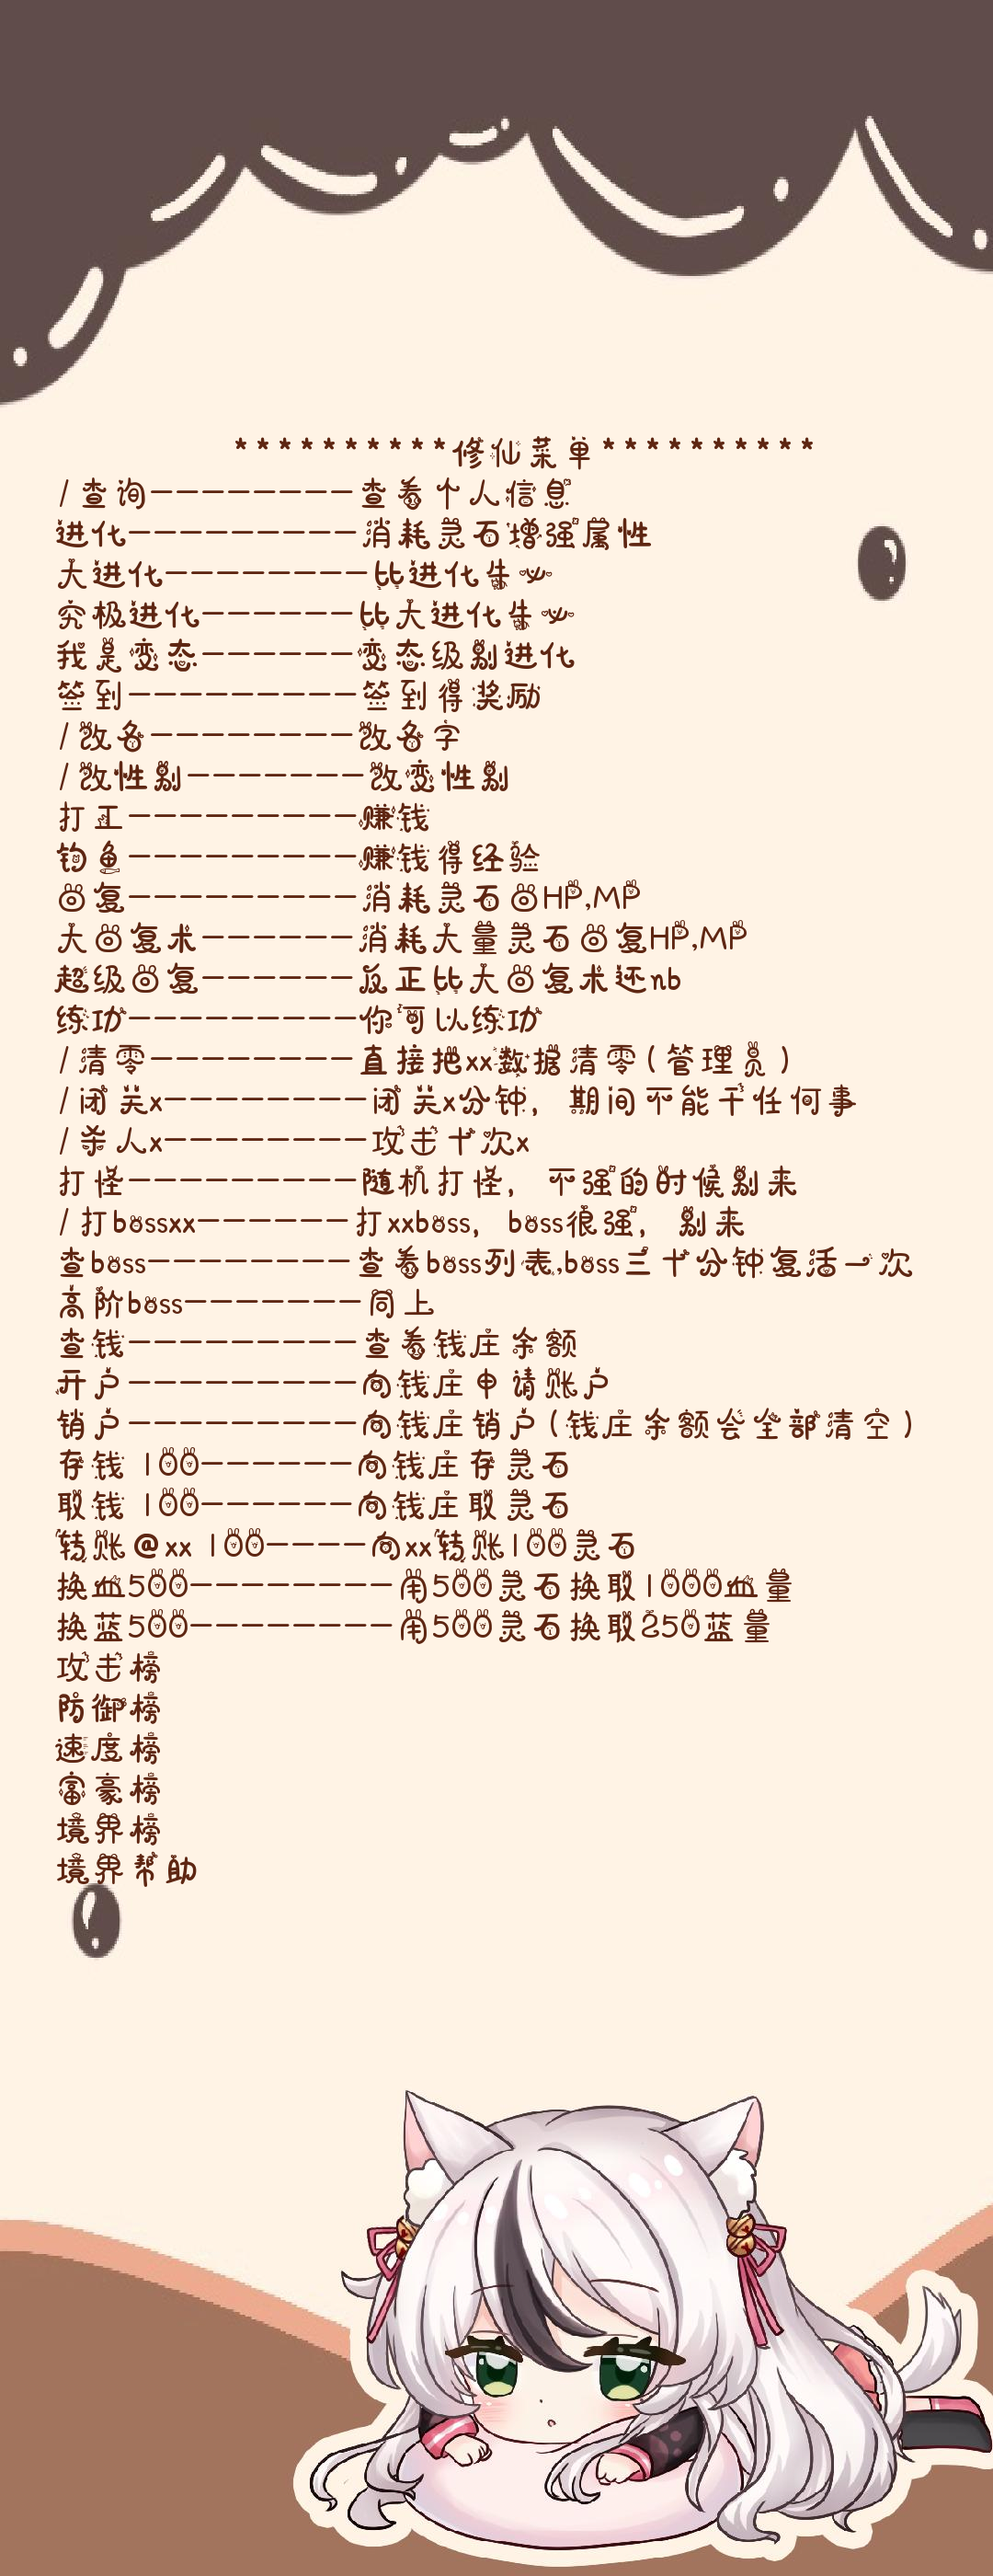
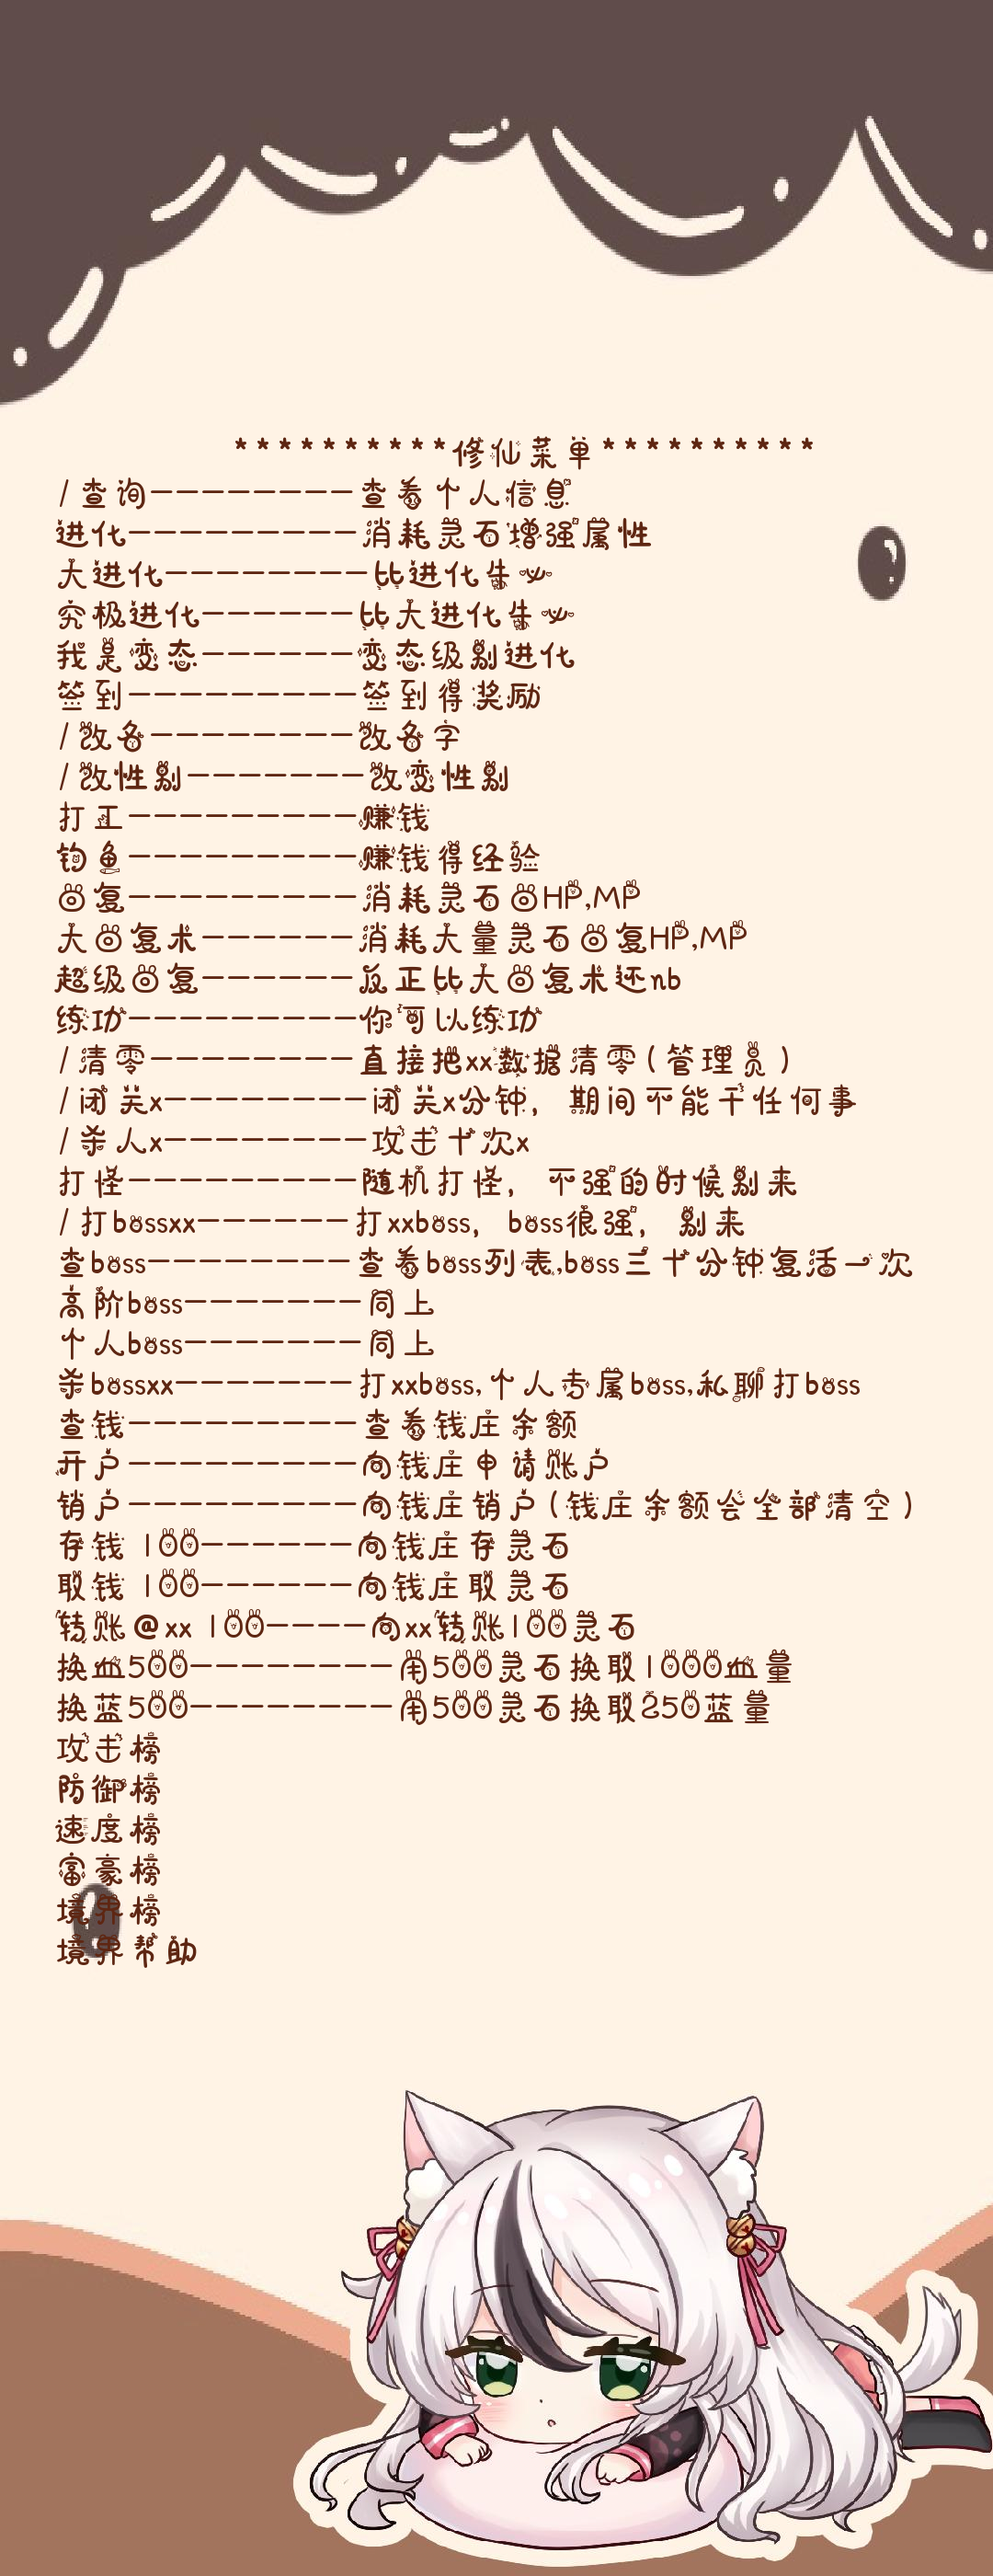
src

Changed region(s): [[0.3667, 0.4971, 0.8861, 0.6836], [0.0611, 0.4971, 0.275, 0.7768], [0.1528, 0.4971, 0.1833, 0.5282]]

diff --git a/bot2/plugins/xiuxian/atboss.py b/bot2/plugins/xiuxian/atboss.py
@@ -8,11 +8,14 @@
 @Github: https://github.com/0xchang
 """
 from nonebot import on_command
-from nonebot.adapters.onebot.v11 import GroupMessageEvent
-from bot2.plugins.xiuxian.Role import XianRole,MonBoss
+from nonebot.rule import to_me
+from nonebot.adapters.onebot.v11 import GroupMessageEvent, Event
+from bot2.plugins.xiuxian.Role import XianRole, MonBoss
 from nonebot.adapters.onebot.v11.message import Message
 from nonebot.params import CommandArg
 import sqlite3
+from bot2.plugins.xiuxian.moncfg import gerenboss
+from bot2.plugins.xiuxian.AMonster import GeRBoss
 
 atbossxian = on_command('打boss', priority=260)
 
@@ -43,7 +46,7 @@ async def bgxian_handle(event: GroupMessageEvent, argcom: Message = CommandArg()
         if val[4] == 0:
             await atbossxian.finish(Message('这个boss好像死了，换个boss或者等会再来吧'))
         m = MonBoss(bt)
-        res=u.kmonboss(m)
+        res = u.kmonboss(m)
         if not res[0]:
             mess = f'你是不是有点菜啊,{bt}都没有打过,快去加强一下自己吧,记得回血哦'
         else:
@@ -51,3 +54,40 @@ async def bgxian_handle(event: GroupMessageEvent, argcom: Message = CommandArg()
         del u
         del m
         await atbossxian.finish(Message(mess))
+
+
+atgrbossxian = on_command('杀boss', rule=to_me(), priority=261)
+
+
+@atgrbossxian.handle()
+async def asgrboss_handle(event: Event, argcom: Message = CommandArg()):
+    uid = event.get_user_id()
+    bname = argcom.extract_plain_text().strip()
+    con = sqlite3.connect('data/xiuxian.data')
+    cur = con.cursor()
+    cur.execute('select * from gerenboss where uid=? and name=?', (uid, bname))
+    con.commit()
+    grboss = cur.fetchall()
+    if grboss == []:
+        for gb in gerenboss:
+            cur.execute('insert into gerenboss(uid,name,HP,attack,defense,live) values(?,?,?,?,?,?)',
+                        (uid, gb[0], gb[1], gb[2], gb[3], 1))
+            con.commit()
+            if gb[0] == bname:
+                grboss = (uid, gb[0], gb[1], gb[2], gb[3], 1)
+    else:
+        grboss = grboss[0]
+    cur.close()
+    con.close()
+    if grboss[5] == 0:
+        await atgrbossxian.finish(Message('这个boss好像没有复活'))
+    else:
+        u = XianRole(uid)
+        g = GeRBoss(grboss[1], grboss[2], grboss[3], grboss[4])
+        res = u.kmonboss(g)
+        if not res[0]:
+            mess = f'你是不是有点菜啊,{grboss[1]}都没有打过,快去加强一下自己吧,记得回血哦'
+        else:
+            mess = f'恭喜你打过了{grboss[1]},但是你损失了{res[3]}血,你卖掉他的妖丹得到了{res[1]}灵石,你的灵气增长{res[2]}'
+        del u
+        await atgrbossxian.finish(Message(mess))

diff --git a/bot2/plugins/xiuxian/lookboss.py b/bot2/plugins/xiuxian/lookboss.py
@@ -8,8 +8,11 @@
 @Github: https://github.com/0xchang
 """
 from nonebot import on_fullmatch
+from nonebot.rule import to_me
 from nonebot.adapters.onebot.v11.message import Message
+from nonebot.adapters.onebot.v11 import Event
 import sqlite3
+from bot2.plugins.xiuxian.moncfg import gerenboss
 
 lbossxian = on_fullmatch('查boss', priority=262)
 
@@ -31,7 +34,7 @@ async def lbossxian_handle():
         else:
             mess += '否'
         mess += '\n'
-    mess=mess[:-1]
+    mess = mess[:-1]
     await lbossxian.finish(Message(mess))
 
 
@@ -55,5 +58,32 @@ async def lhbossxian_handle():
         else:
             mess += '否'
         mess += '\n'
-    mess=mess[:-1]
+    mess = mess[:-1]
     await lhbossxian.finish(Message(mess))
+
+
+grbossxian = on_fullmatch('个人boss', priority=263, rule=to_me())
+
+
+@grbossxian.handle()
+async def grboss_handle(event: Event):
+    uid = event.get_user_id()
+    con = sqlite3.connect('data/xiuxian.data')
+    cur = con.cursor()
+    cur.execute('select * from gerenboss where uid=?', (uid,))
+    con.commit()
+    boss = cur.fetchall()
+    cur.close()
+    con.close()
+    mess = ''
+    if boss == []:
+        for grb in gerenboss:
+            mess += 'boss:' + grb[0] + '->血量:' + str(grb[1]) + ',攻击:' + str(grb[2]) + ',防御:' + str(grb[3]) + '存活:是\n'
+    else:
+        for grb in boss:
+            mess += 'boss:' + grb[1] + '->血量:' + str(grb[2]) + ',攻击:' + str(grb[3]) + ',防御:' + str(grb[4]) + '存活:'
+            if grb[5] == 1:
+                mess += '是\n'
+            else:
+                mess += '否\n'
+    await grbossxian.finish(Message(mess),at_sender=True)

diff --git a/bot2/plugins/xiuxian/moncfg.py b/bot2/plugins/xiuxian/moncfg.py
@@ -38,10 +38,22 @@ monboss = (('天狗', 20000, 10000, 8000),
            ('猪八戒', 300000, 150000, 320000),)
 
 highmonboss = (('季沧海', 2000000, 3200000, 3000000),
-             ('武田信忠', 2400000, 3000000, 3150000),
-             ('吸血鬼血祖', 2000000, 3200000, 2000000),
-             ('精灵族女王', 1500000, 4050000, 3000000),
-             ('天使族族长', 5000000, 3000000, 4000000),
-             ('天海', 10000000, 8000000, 15000000),
-             ('恶魔族族长', 2500000, 6000000, 3500000),
-             ('杰克·库博', 100000000, 100000000, 100000000),)
+               ('武田信忠', 2400000, 3000000, 3150000),
+               ('吸血鬼血祖', 2000000, 3200000, 2000000),
+               ('精灵族女王', 1500000, 4050000, 3000000),
+               ('天使族族长', 5000000, 3000000, 4000000),
+               ('天海', 10000000, 8000000, 15000000),
+               ('恶魔族族长', 2500000, 6000000, 3500000),
+               ('杰克·库博', 100000000, 100000000, 100000000),)
+
+gerenboss = (('精英1', 20000, 20000, 20000),
+             ('精英2', 40000, 40000, 40000),
+             ('精英3', 60000, 60000, 60000),
+             ('精英4', 80000, 80000, 80000),
+             ('精英5', 100000, 100000, 100000),
+             ('精英6', 120000, 120000, 120000),
+             ('精英7', 140000, 140000, 140000),
+             ('精英8', 160000, 160000, 160000),
+             ('精英9', 180000, 180000, 180000),
+             ('精英10', 200000, 200000, 200000),
+             ('精英11', 220000, 220000, 220000))

diff --git a/bot2/plugins/xiuxian/__init__.py b/bot2/plugins/xiuxian/__init__.py
@@ -21,6 +21,7 @@ def create_xian():
     create_hmboos_sql = 'create table if not exists monboss(name text,HP int,attack int,defense int,live int)'
     create_mboos_sql = 'create table if not exists highmonboss(name text,HP int,attack int,defense int,live int)'
     create_bank_sql = 'create table if not exists bank(uid int,gold int)'
+    create_grboss_sql = 'create table if not exists gerenboss(uid int,name text,HP int,attack int,defense int,live int)'
     cur.execute(create_xian_sql)
     cur.execute(create_xiulian_sql)
     cur.execute(create_chenghao_sql)
@@ -28,6 +29,7 @@ def create_xian():
     cur.execute(create_mboos_sql)
     cur.execute(create_bank_sql)
     cur.execute(create_hmboos_sql)
+    cur.execute(create_grboss_sql)
     con.commit()
     cur.close()
     con.close()
@@ -42,6 +44,7 @@ def create_monster():
     cur.execute('delete from monsters')
     cur.execute('delete from monboss')
     cur.execute('delete from highmonboss')
+    cur.execute('delete from gerenboss')
     con.commit()
     for monster in monsters:
         cur.execute('insert into monsters(name,HP,attack,defense) values(?,?,?,?)', monster)

diff --git a/bot2/plugins/xiuxian/AMonster.py b/bot2/plugins/xiuxian/AMonster.py
@@ -66,3 +66,20 @@ class MonBoss:
 
     def getDefense(self) -> int:
         return self.defense
+
+
+class GeRBoss:
+    def __init__(self,name,attack,defense,HP):
+        self.name = name
+        self.attack = attack
+        self.defense = defense
+        self.HP = HP
+
+    def getAttack(self) -> int:
+        return self.attack
+
+    def getHP(self) -> int:
+        return self.HP
+
+    def getDefense(self) -> int:
+        return self.defense

diff --git a/bot2/plugins/help/xiuxianhelp.py b/bot2/plugins/help/xiuxianhelp.py
@@ -36,6 +36,8 @@ def create_xiuxian_help():
     /打bossxx------打xxboss，boss很强，别来
     查boss--------查看boss列表,boss三十分钟复活一次
     高阶boss-------同上
+    个人boss-------同上
+    杀bossxx-------打xxboss,个人专属boss,私聊打boss
     查钱---------查看钱庄余额
     开户---------向钱庄申请账户
     销户---------向钱庄销户(钱庄余额会全部清空)

diff --git a/bot2/plugins/xiuxian/Role.py b/bot2/plugins/xiuxian/Role.py
@@ -176,6 +176,7 @@ class XianRole:
             cur = con.cursor()
             cur.execute('update monboss set live=? where name=?', (0, m.name))
             cur.execute('update highmonboss set live=? where name=?', (0, m.name))
+            cur.execute('update gerenboss set live=? where name=? and uid=?', (0, m.name,self.uid))
             con.commit()
             cur.close()
             con.close()

diff --git a/bot2/plugins/xiuxian/reboss.py b/bot2/plugins/xiuxian/reboss.py
@@ -18,6 +18,7 @@ async def reboss():
     cur=con.cursor()
     cur.execute('update monboss set live=1')
     cur.execute('update highmonboss set live=1')
+    cur.execute('update gerenboss set live=1')
     cur.execute('delete from biguan where uid IS NULL')
     cur.execute('delete from Role where uid IS NULL')
     con.commit()
